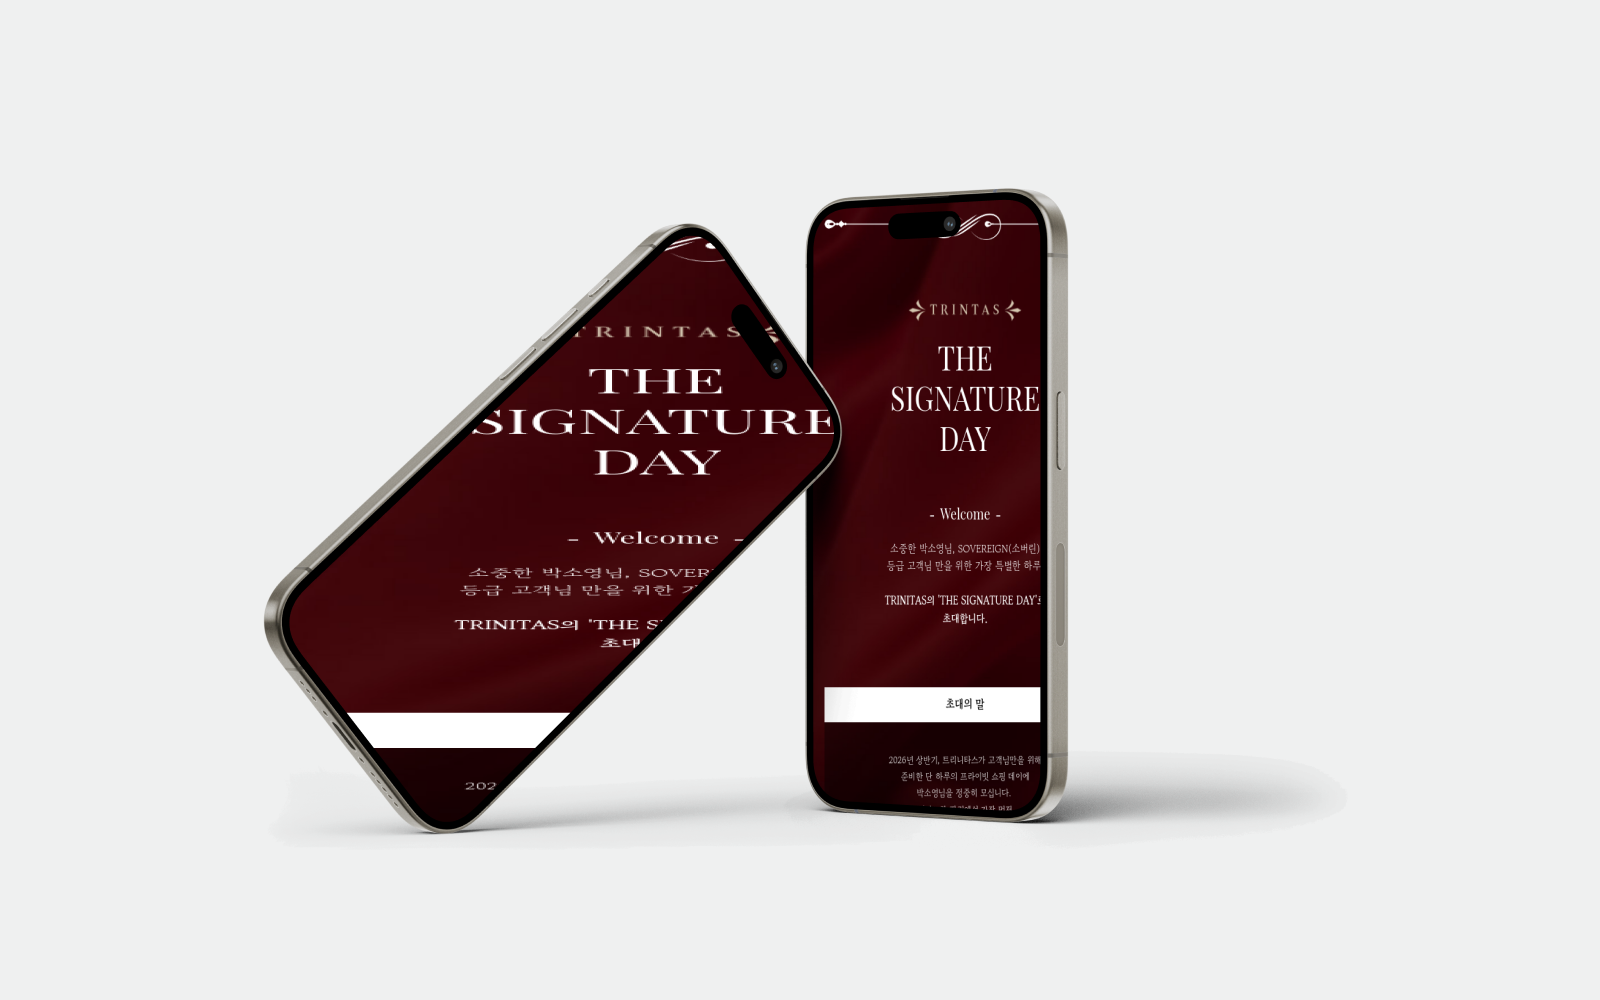
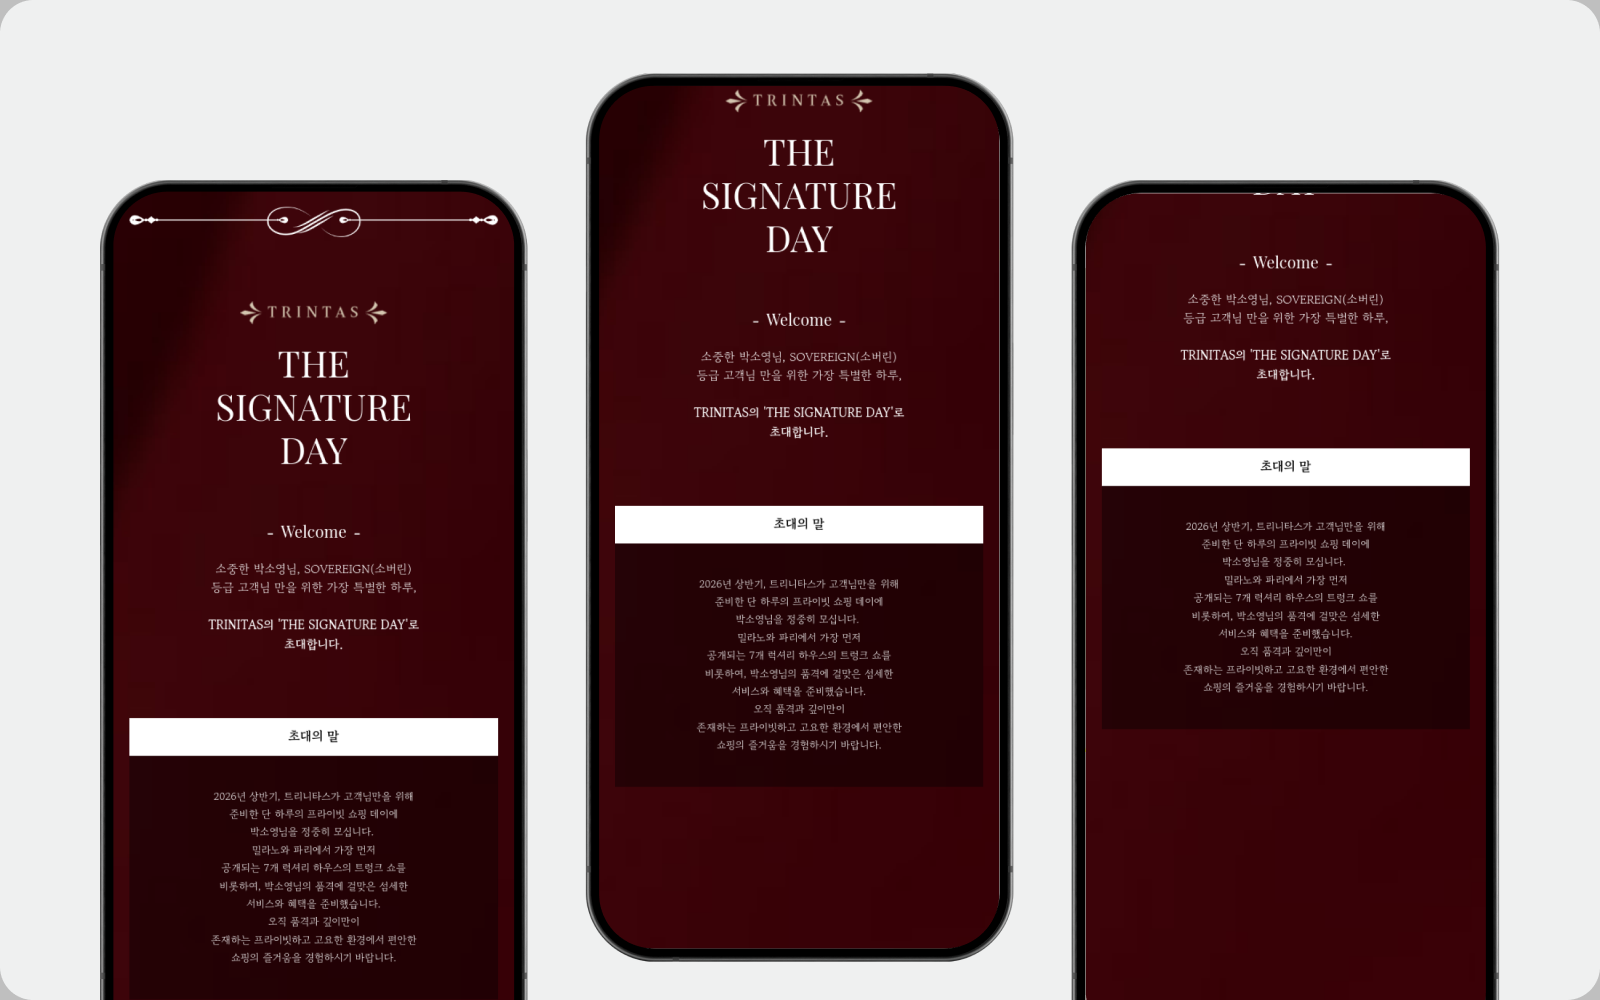
vault backup: 2026-06-19 17:12:14

diff --git a/블로그/이미지/1. 디자인 가이드/1-2. 레이아웃/1-2-1. 레이아웃 규칙.md b/블로그/이미지/1. 디자인 가이드/1-2. 레이아웃/1-2-1. 레이아웃 규칙.md
@@ -58,7 +58,7 @@ updated: 2026-06-19
 
 | 유형 | Figma 섹션 ID | 프레임 개수 | 슬롯 구성 |
 |------|--------------|-----------|----------|
-| **A. 히어로 이미지(목업)** | `1:11487` | 4 | `MOCKUP_1` · `MOCKUP_2` · `LABEL_PILL` (선택) |
+| **A. 히어로 이미지(목업)** ⭐ 갱신 | **`1:12129`** (이전 `1:11487` 폐기) | 1 정답 ref | `mockup 1/2/3` (phone frames) · `screen 1/2/3` (캡처) |
 | **B. 비교** | `1:11488` | 11 | `LEFT_SLOT`(라벨+자산) · `VS_AXIS` · `RIGHT_SLOT`(라벨+자산) |
 | **C. 목업+목업** | `1:11733` | 9 | `MOCKUP_1` · `MOCKUP_2` · `LABEL_PILL` |
 | **D. 에디터** | `1:12233` | 7 | `EDITOR_CANVAS` · `LABEL_PILL` · `DECO`(선택) |
@@ -81,15 +81,66 @@ updated: 2026-06-19
 
 ## 3. 유형별 상세 룰
 
-### 3.1. A. 히어로 이미지 (목업) — `1:11487`
+### 3.1. A. 히어로 이미지 (목업) — `1:12129` ⭐ (2026-06-19 갱신)
 
 > 글의 도입부·결론을 장식하는 **메인 비주얼**. 본문이 무엇을 말하는지 한눈에.
 
-- **목업 2개**: 좌(-15° 기울임) + 우(+15° 기울임), 약간 겹침
-- **배경**: 흰색 또는 연한 그라데이션
-- **라벨 pill**: 선택. 있다면 상단 중앙 (없는 경우가 더 많음)
-- **목업 화면 fill**: viewer의 hero 섹션 캡처 (포스터·표지 영역)
-- **글로우**: 보라 글로우 (`#6C4CFF`, blur 30) 권장
+**🔴 정답 레퍼런스**: `1:12129` (블로그 이미지 파일 내 5781782 프레임)
+- **이전 패턴 폐기** (`1:11487` 히어로 목업 컴포넌트의 V자 기울임 페어) — 화면 fill 시 컨텐츠가 기이하게 잘림. 사용 ❌.
+
+**레이아웃 — 3개 폰 정자세 + 중앙 elevation**
+
+```
+┌──────────────────────── 1920 × 1200, cornerRadius 40, BG #EFF0F0 ────────────────────────┐
+│                                                                                          │
+│                          ┌─────────┐                                                     │
+│   ┌─────────┐            │  Phone  │             ┌─────────┐                             │
+│   │  Phone  │            │   2     │             │  Phone  │                             │
+│   │   1     │            │         │             │   3     │                             │
+│   │         │ (y=216)    │ (y=88)  │             │         │ (y=216)                     │
+│   │  481×   │            │ 480×    │             │ 480×    │                             │
+│   │  1034   │            │ 1035    │             │ 1023    │                             │
+│   └─────────┘            └─────────┘             └─────────┘                             │
+│                                                                                          │
+└──────────────────────────────────────────────────────────────────────────────────────────┘
+```
+
+**고정 좌표 (절대값)**
+
+| 슬롯 | x | y | w | h | cornerRadius | 비고 |
+|------|---|---|---|---|--------------|------|
+| **mockup 1** (좌측 phone frame) | 120 | 216 | 513 | 1066 | 0 | IMAGE fill, hash `36c4ee3ec8127bb777216967bbf30a447ed93905` (공식 폰 프레임 PNG) |
+| **mockup 2** (중앙 phone frame) | 703 | 88 | 513 | 1066 | 0 | 같은 hash. 중앙은 y -128 elevation |
+| **mockup 3** (우측 phone frame) | 1286 | 216 | 513 | 1066 | 0 | 같은 hash |
+| **screen 1** (좌측 화면) | 136 | 230 | 481 | 1034 | 65 | viewer 캡처 hash A |
+| **screen 2** (중앙 화면) | 719 | 103 | 480 | 1035 | 65 | viewer 캡처 hash B |
+| **screen 3** (우측 화면) | 1303 | 232 | 480 | 1023 | 65 | viewer 캡처 hash C |
+
+- **위·아래 폰 padding**: 폰 frame 내부 ~16px (left/top), ~32px (bottom — phone bottom bezel)
+- **폰 간 가로 간격**: 70px (1286-703-513, 703-120-513)
+
+**캡처 자산**
+
+- **screen aspect** = 480/1034 = **0.4642** (1920×1200 캔버스 기준)
+- viewer fullpage 캡처 (`thum.io fullpage`) → PIL로 **750×1616** crop 3개 (aspect 0.4641)
+- **3개 crop 전략**:
+  - **방식 1 — 서로 다른 섹션** (viewer가 hero·RSVP form·contact 등 distinct 섹션을 가질 때 ⭐): 각 phone에 다른 섹션 (예: `1:12129` Heritage Summit — Welcome / RSVP / 문의처)
+  - **방식 2 — 같은 viewer 다른 vertical position** (viewer가 단일 흐름일 때): y offset 다르게 (예: y=0/200/500) 3개 crop → 자연스러운 "스크롤 진행" 시각화
+
+**fill 모드**
+- screen rect 모두 `scaleMode: 'FILL'` + identity `imageTransform` 권장 (crop이 정확한 aspect면 distortion 0)
+- crop aspect와 screen aspect 차이가 있으면 `imageTransform` Y scale로 미세 조정 (레퍼런스 1:12129도 일부 screen에 0.93~1.01 사이 Y 미세 조정)
+
+**스타일 디테일**
+- **글로우 / 그림자 / DECO 모두 없음** — 폰 frame PNG에 그림자 베이크 인. 추가 effect 노이즈.
+- **라벨 pill 없음** — 화면 콘텐츠 자체가 컨텍스트 전달
+
+**제작 절차 요약**
+1. 본문 키워드 → viewer 슬러그 결정 ([[1-3. 이미지 규칙]] §4.1, 썸네일 §2 카탈로그)
+2. viewer 풀페이지 캡처 (thum.io width 750 / wait 20 / `fullpage`)
+3. 3개 crop 750×1616 — 의미 섹션 분할 or vertical scroll position
+4. `upload_assets` count=3 → 3개 imageHash 확보
+5. 1920×1200 frame + 3 phone frames + 3 screens 위 좌표대로 배치 (코드: `code.js` `buildHeroBlog()` 추후 작성)
 
 ### 3.2. B. 비교 — `1:11488`
 
@@ -205,3 +256,4 @@ updated: 2026-06-19
 | 일자 | 변경 내용 |
 |------|-----------|
 | 2026-06-19 | 최초 작성. Figma 파일 `qRFc2HpQ4Mp562LQMB8BX0` 메타데이터·스크린샷 분석 기반. 출력 크기 2종 × 구성 패턴 11종 정의. 각 유형의 Figma 섹션 ID·슬롯 구성 매핑. |
+| 2026-06-19 | **A. 히어로 이미지 패턴 전면 교체** — 이전 `1:11487`의 V자 기울임 페어(`히어로 목업` 컴포넌트)는 vector mask 기반 fill이 캡처 콘텐츠를 기이하게 자르는 문제 발견. 사용자 지시로 **3개 정자세 폰 + 중앙 elevation 패턴** (정답 ref `1:12129`)으로 교체. mockup 1/2/3은 공식 폰 프레임 PNG(`36c4ee...`) 공유, screen 1/2/3은 viewer 캡처 3종. crop 전략(섹션 분할 vs vertical scroll)·고정 좌표·캡처 절차 포함. §2.1 표 및 §3.1 본문 동기화. 실증: TRINTAS · THE SIGNATURE DAY 비공개 기업 행사 RSVP 초대장 샘플 (`12:23`) 제작. |

diff --git a/블로그/이미지/1. 디자인 가이드/1-2. 레이아웃/1-2-2. 유형별 레퍼런스.md b/블로그/이미지/1. 디자인 가이드/1-2. 레이아웃/1-2-2. 유형별 레퍼런스.md
@@ -16,7 +16,7 @@ updated: 2026-06-19
 
 | 유형 | 섹션 | Figma 링크 |
 |------|------|-----------|
-| **A. 히어로 이미지(목업)** | `1:11487` | [열기](https://www.figma.com/design/qRFc2HpQ4Mp562LQMB8BX0/블로그-이미지?node-id=1-11487) |
+| **A. 히어로 이미지(목업)** ⭐ 2026-06-19 갱신 | **`1:12129`** (이전 `1:11487` 폐기) | [열기](https://www.figma.com/design/qRFc2HpQ4Mp562LQMB8BX0/블로그-이미지?node-id=1-12129) |
 | **B. 비교** | `1:11488` | [열기](https://www.figma.com/design/qRFc2HpQ4Mp562LQMB8BX0/블로그-이미지?node-id=1-11488) |
 | **C. 목업+목업** | `1:11733` | [열기](https://www.figma.com/design/qRFc2HpQ4Mp562LQMB8BX0/블로그-이미지?node-id=1-11733) |
 | **D. 에디터** | `1:12233` | [열기](https://www.figma.com/design/qRFc2HpQ4Mp562LQMB8BX0/블로그-이미지?node-id=1-12233) |
